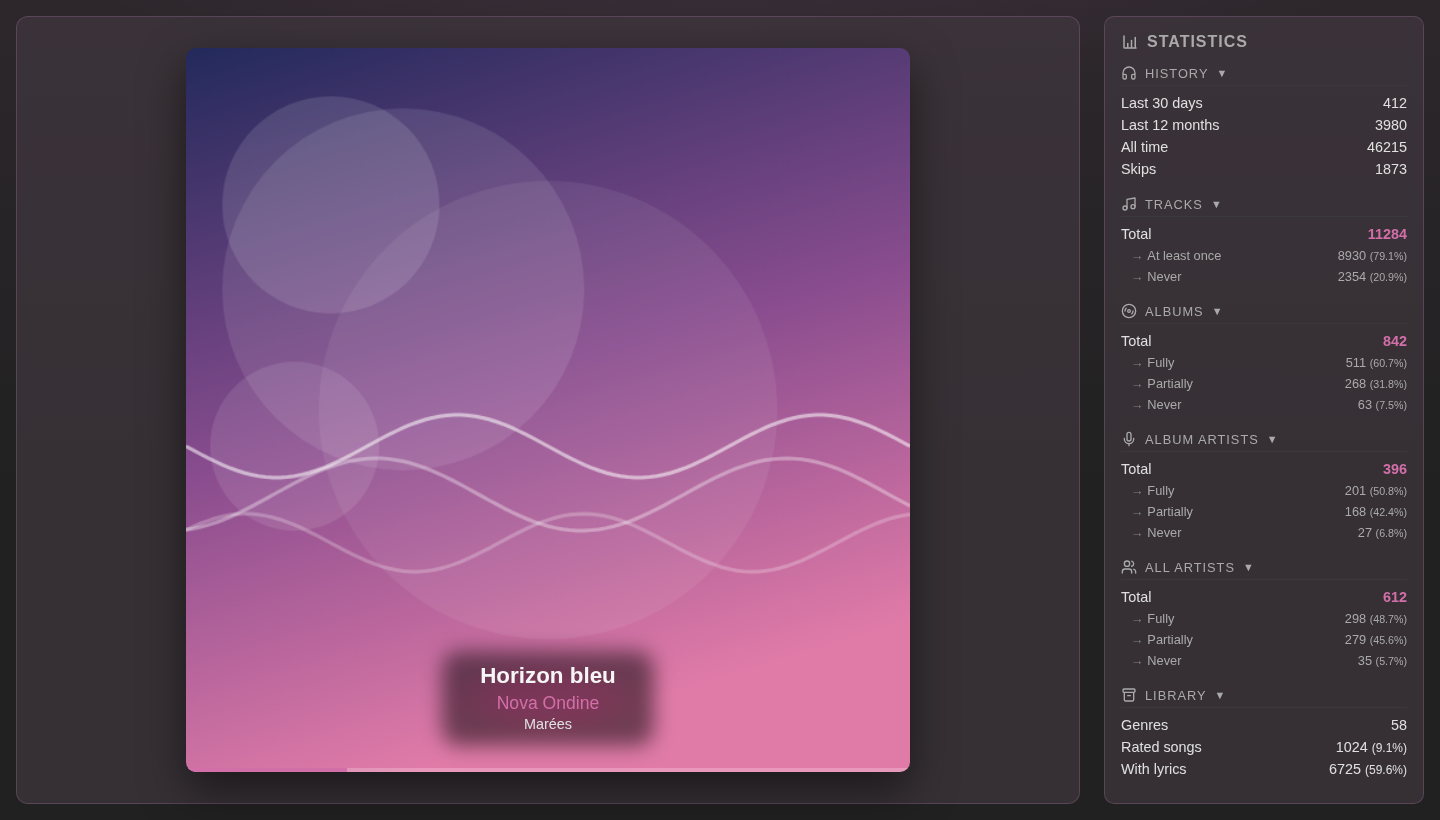
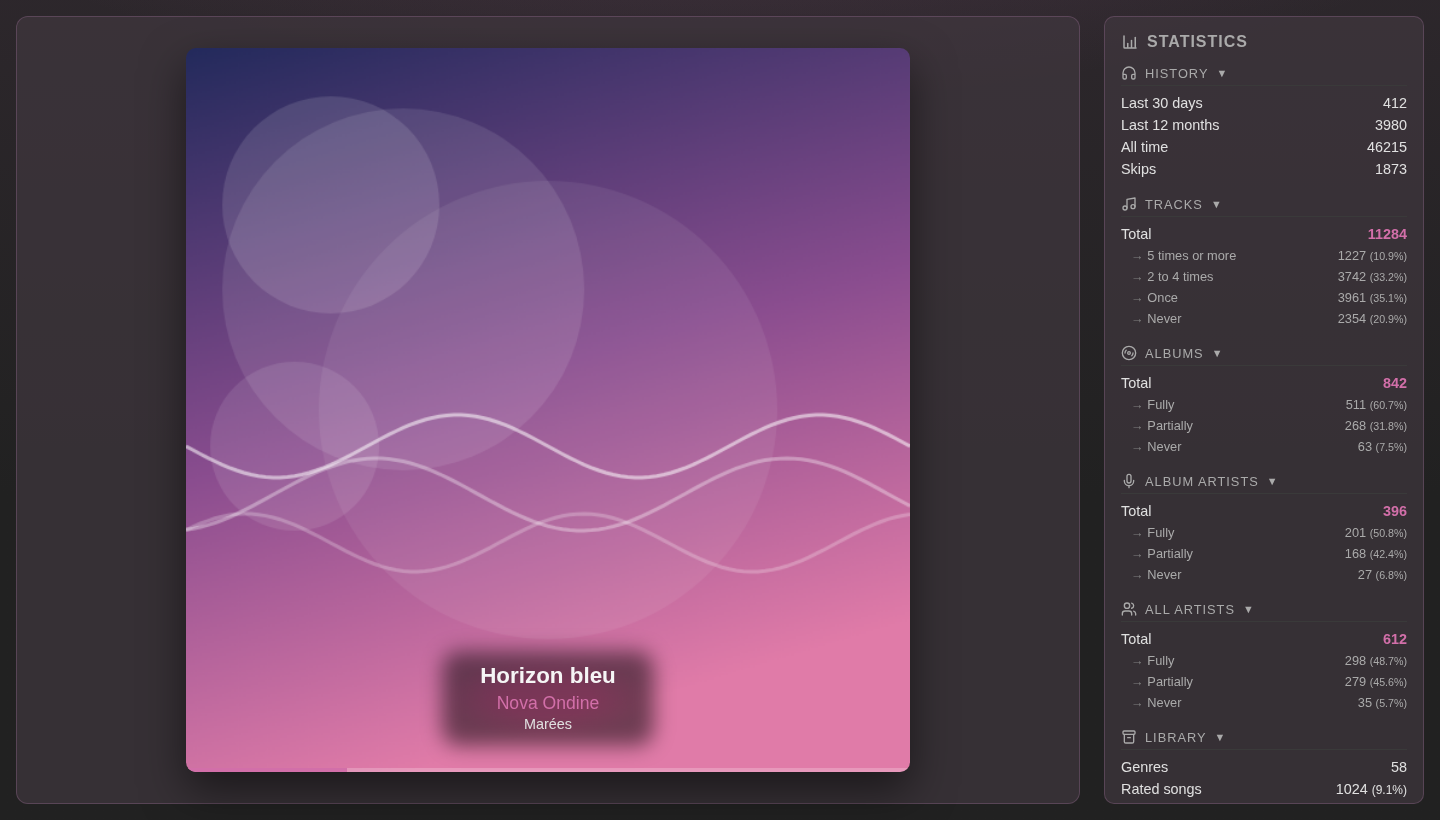
feat(stats): break the tracks down by how often they were played (#104)
* feat(stats): break the tracks down by how often they were played

"At least once" only said whether a track had ever been reached: a track
played once and one played forty times landed in the same percentage, and
on a library that has been through a full sweep the row sits at 100% while
"Never" sits at 0 — two lines that will never move again.

Replace it with three buckets: once, 2 to 4 times, 5 or more. The bounds
are arbitrary but fixed, so each row keeps meaning the same thing over time
and two screenshots a month apart compare. "Never" stays, as the one line
an import brings back to life. Dropping the aggregate keeps the group's
hierarchy flat and costs only one row of height, so the library group stays
above the fold on a 1080p desktop.

The three aggregates ride the track_play CTE the group already scans, and
the rows are ordinary data-stat cells, so the stats poll refreshes them with
no JS change. songs_played_apc stays in /stats.json, where it feeds the
Homepage widget documented in docs/endpoints.md.

Claude-Session: https://claude.ai/code/session_01NerUxeHjDo482m3L88v6r3

* fix(stats): order the depth rows from most to least played

The albums and artists groups read fully, partially, never — most played
first. The tracks group climbed the other way and still ended on "Never",
so it matched neither its neighbours nor itself.

Claude-Session: https://claude.ai/code/session_01NerUxeHjDo482m3L88v6r3

---------

diff --git a/templates/nowplaying.html b/templates/nowplaying.html
@@ -170,8 +170,16 @@
                     <span class="stat-value" data-stat="songs_total">{{ stats.songs_total }}</span>
                 </div>
                 <div class="stat-row sub">
-                    <span class="stat-label">{{ t.played }}</span>
-                    <span data-stat="songs_played_apc" data-stat-pct="songs_played_pct">{{ stats.songs_played_apc }} <small>({{ stats.songs_played_pct }}%)</small></span>
+                    <span class="stat-label">{{ t.played_5_plus }}</span>
+                    <span data-stat="songs_played_5_plus" data-stat-pct="songs_played_5_plus_pct">{{ stats.songs_played_5_plus }} <small>({{ stats.songs_played_5_plus_pct }}%)</small></span>
+                </div>
+                <div class="stat-row sub">
+                    <span class="stat-label">{{ t.played_2_4 }}</span>
+                    <span data-stat="songs_played_2_4" data-stat-pct="songs_played_2_4_pct">{{ stats.songs_played_2_4 }} <small>({{ stats.songs_played_2_4_pct }}%)</small></span>
+                </div>
+                <div class="stat-row sub">
+                    <span class="stat-label">{{ t.played_once }}</span>
+                    <span data-stat="songs_played_once" data-stat-pct="songs_played_once_pct">{{ stats.songs_played_once }} <small>({{ stats.songs_played_once_pct }}%)</small></span>
                 </div>
                 <div class="stat-row sub">
                     <span class="stat-label">{{ t.unplayed }}</span>

diff --git a/tests/test_stats_play_depth.py b/tests/test_stats_play_depth.py
@@ -1,0 +1,99 @@
+"""Tests for the play-depth buckets: how the played tracks split between one
+play, a few and many."""
+# The temp-db + Flask-app scaffolding is intentionally the same as in the
+# other database tests; that repetition is what keeps each file standalone.
+# pylint: disable=duplicate-code
+
+import os
+import sqlite3
+import tempfile
+import unittest
+
+os.environ.setdefault("LYRION_HOST", "http://localhost:9000")
+os.environ.setdefault("DB_DIR", tempfile.mkdtemp())
+os.environ.setdefault("DB_PERSIST_DIR", tempfile.mkdtemp())
+
+# The config env vars above must be set before anything imports config.py.
+# pylint: disable=wrong-import-position
+from flask import Flask
+
+from services.database import _compute_stats  # pylint: disable=protected-access
+
+
+LIBRARY_SCHEMA = """
+    CREATE TABLE tracks (id INTEGER, url TEXT, urlmd5 TEXT, audio INTEGER,
+                         album INTEGER, lyrics TEXT);
+    CREATE TABLE albums (id INTEGER, artwork TEXT);
+    CREATE TABLE contributor_track (contributor INTEGER, track INTEGER, role INTEGER);
+    CREATE TABLE genres (id INTEGER);
+"""
+PERSIST_SCHEMA = """
+    CREATE TABLE tracks_persistent (url TEXT, urlmd5 TEXT, playcount INTEGER,
+                                    lastplayed INTEGER, rating INTEGER);
+"""
+
+# One track per bucket boundary: unplayed, once, the edges of 2-4, and beyond.
+PLAYCOUNTS = [0, 1, 2, 4, 5, 40]
+
+
+class PlayDepthTest(unittest.TestCase):
+    def setUp(self):
+        self.library = self._make_db(LIBRARY_SCHEMA)
+        self.persist = self._make_db(PERSIST_SCHEMA)
+        conn = sqlite3.connect(self.library)
+        conn.executemany(
+            "INSERT INTO tracks VALUES (?, ?, ?, 1, 1, NULL)",
+            [(i, f"u{i}", f"m{i}") for i in range(len(PLAYCOUNTS))],
+        )
+        conn.execute("INSERT INTO albums VALUES (1, 'ca')")
+        conn.commit()
+        conn.close()
+        conn = sqlite3.connect(self.persist)
+        conn.executemany(
+            "INSERT INTO tracks_persistent VALUES (?, ?, ?, 100, 0)",
+            [(f"u{i}", f"m{i}", count) for i, count in enumerate(PLAYCOUNTS)],
+        )
+        conn.commit()
+        conn.close()
+
+        self.app = Flask(__name__)
+        self.app.config["DB_PATH"] = self.library
+        self.app.config["DB_PERSIST_PATH"] = self.persist
+        with self.app.app_context():
+            self.stats = _compute_stats()
+
+    def tearDown(self):
+        os.unlink(self.library)
+        os.unlink(self.persist)
+
+    @staticmethod
+    def _make_db(schema):
+        # Only borrows a unique path from NamedTemporaryFile: the handle is
+        # closed right away and the file removed in tearDown (delete=False).
+        tmp = tempfile.NamedTemporaryFile(suffix=".db", delete=False)  # pylint: disable=consider-using-with
+        tmp.close()
+        conn = sqlite3.connect(tmp.name)
+        conn.executescript(schema)
+        conn.commit()
+        conn.close()
+        return tmp.name
+
+    def test_each_bucket_holds_its_own_range(self):
+        self.assertEqual(self.stats["songs_played_once"], 1)
+        self.assertEqual(self.stats["songs_played_2_4"], 2)
+        self.assertEqual(self.stats["songs_played_5_plus"], 2)
+
+    def test_the_buckets_partition_the_played_tracks(self):
+        buckets = sum(self.stats[k] for k in
+                      ("songs_played_once", "songs_played_2_4", "songs_played_5_plus"))
+        self.assertEqual(buckets, self.stats["songs_played_apc"])
+        self.assertEqual(buckets + self.stats["songs_unplayed_apc"], self.stats["songs_total"])
+
+    def test_percentages_are_shares_of_the_whole_library(self):
+        self.assertEqual(self.stats["songs_played_once_pct"], round(100 / 6, 1))
+        self.assertEqual(self.stats["songs_played_2_4_pct"], round(200 / 6, 1))
+        self.assertEqual(self.stats["songs_played_5_plus_pct"], round(200 / 6, 1))
+
+
+if __name__ == "__main__":
+    unittest.main()

diff --git a/services/database.py b/services/database.py
@@ -210,7 +210,10 @@ def _compute_stats():
                 (SELECT SUM(is_played) FROM track_play)                        AS songs_played_apc,
                 (SELECT COUNT(*) - SUM(is_played) FROM track_play)             AS songs_unplayed_apc,
                 (SELECT SUM(playcount) FROM track_play WHERE playcount > 0)    AS songs_total_plays_apc,
-                (SELECT SUM(skipcount) FROM track_play WHERE skipcount > 0)    AS songs_total_skips_apc
+                (SELECT SUM(skipcount) FROM track_play WHERE skipcount > 0)    AS songs_total_skips_apc,
+                (SELECT SUM(playcount = 1) FROM track_play)                    AS songs_played_once,
+                (SELECT SUM(playcount BETWEEN 2 AND 4) FROM track_play)        AS songs_played_2_4,
+                (SELECT SUM(playcount >= 5) FROM track_play)                   AS songs_played_5_plus
             FROM album_agg
         """).fetchone()
 
@@ -225,6 +228,9 @@ def _compute_stats():
             "songs_unplayed_apc":    row["songs_unplayed_apc"] or 0,
             "songs_total_plays_apc": row["songs_total_plays_apc"] or 0,
             "songs_total_skips_apc": row["songs_total_skips_apc"] or 0,
+            "songs_played_once":     row["songs_played_once"] or 0,
+            "songs_played_2_4":      row["songs_played_2_4"] or 0,
+            "songs_played_5_plus":   row["songs_played_5_plus"] or 0,
             "apc_available":         apc_available,
         }
 
@@ -337,6 +343,9 @@ def _compute_stats():
         # Pourcentages songs
         stats["songs_played_pct"]       = pct(stats["songs_played_apc"],  stats["songs_total"])
         stats["songs_unplayed_apc_pct"] = pct(stats["songs_unplayed_apc"], stats["songs_total"])
+        stats["songs_played_once_pct"]  = pct(stats["songs_played_once"],  stats["songs_total"])
+        stats["songs_played_2_4_pct"]   = pct(stats["songs_played_2_4"],   stats["songs_total"])
+        stats["songs_played_5_plus_pct"] = pct(stats["songs_played_5_plus"], stats["songs_total"])
 
         # Pourcentages divers
         stats["rated_songs_pct"]        = pct(stats["rated_songs"],       stats["songs_total"])

diff --git a/i18n.py b/i18n.py
@@ -43,7 +43,9 @@ TRANSLATIONS = {
         "fully_played": "Complètement",
         "partially_played": "Partiellement",
         "never_played": "Jamais",
-        "played": "Au moins une fois",
+        "played_5_plus": "5 fois et plus",
+        "played_2_4": "2 à 4 fois",
+        "played_once": "1 fois",
         "unplayed": "Jamais",
         "played_last_30d": "30 derniers jours",
         "played_last_year": "12 derniers mois",
@@ -86,7 +88,9 @@ TRANSLATIONS = {
         "fully_played": "Fully",
         "partially_played": "Partially",
         "never_played": "Never",
-        "played": "At least once",
+        "played_5_plus": "5 times or more",
+        "played_2_4": "2 to 4 times",
+        "played_once": "Once",
         "unplayed": "Never",
         "played_last_30d": "Last 30 days",
         "played_last_year": "Last 12 months",

diff --git a/scripts/generate_screenshots.py b/scripts/generate_screenshots.py
@@ -75,6 +75,7 @@ def _stats():
         "songs_total": 11284, "songs_played_apc": 8930,
         "songs_unplayed_apc": 2354, "songs_total_plays_apc": 46215,
         "songs_total_skips_apc": 1873, "apc_available": True,
+        "songs_played_once": 3961, "songs_played_2_4": 3742, "songs_played_5_plus": 1227,
         "genres": 58, "rated_songs": 1024, "songs_with_lyrics": 6725,
         "velocity_30d": 412, "velocity_1year": 3980,
     }
@@ -94,6 +95,8 @@ def _stats():
         s[key + "_pct"] = _pct(s[key], s[total])
     s["songs_played_pct"] = _pct(s["songs_played_apc"], s["songs_total"])
     s["songs_unplayed_apc_pct"] = _pct(s["songs_unplayed_apc"], s["songs_total"])
+    for key in ("songs_played_once", "songs_played_2_4", "songs_played_5_plus"):
+        s[key + "_pct"] = _pct(s[key], s["songs_total"])
     return s
 
 

diff --git a/README.fr.md b/README.fr.md
@@ -17,7 +17,7 @@
 - **Dernières écoutes** -- Sur grand écran, les albums récemment écoutés s'empilent comme des pochettes de disque sous la cover, le plus récent au-dessus. Construit à partir de l'historique d'écoute, une pochette par album ; avec le plugin Alternative Play Count installé, les sauts sont exclus.
 - **Paroles synchronisées** -- Les paroles avec timestamps LRC défilent ligne par ligne au rythme de la lecture, façon karaoké.
 - **Recherche web de paroles** -- Un interrupteur de recherche automatique interroge LRCLIB, Musixmatch et Genius pour chaque morceau joué : il complète les paroles absentes de la bibliothèque et convertit son texte simple en version synchronisée quand elle existe.
-- **Statistiques de la bibliothèque** -- Albums, artistes, morceaux joués/non joués, genres, notes, paroles, vélocité d'écoute sur 30 jours.
+- **Statistiques de la bibliothèque** -- Albums, artistes, morceaux joués/non joués et profondeur des réécoutes, genres, notes, paroles, vélocité d'écoute sur 30 jours.
 - **Serveur de fichiers** -- Sert les fichiers depuis un répertoire configurable.
 - **Application Android** -- Une fine surcouche WebView (même principe que [lms-material-app](https://github.com/CDrummond/lms-material-app)) avec découverte automatique du serveur LMS, publiée sur [F-Droid](https://f-droid.org/packages/com.werdeil.lyriondashboard/), voir [`android/`](android/README.md) (en anglais).
 

diff --git a/README.md b/README.md
@@ -17,7 +17,7 @@
 - **Recent plays** -- On wide screens the recently played albums stack up as a pile of sleeves under the cover, newest on top. Built from the play history, one cover per album; with the Alternative Play Count plugin installed, skips are excluded.
 - **Synced lyrics** -- Lyrics with LRC timestamps scroll line by line in time with playback, karaoke-style.
 - **Web lyrics fallback** -- An auto-search switch queries LRCLIB, Musixmatch and Genius for every playing track: it fills in what the library is missing and upgrades plain text to a synced version when one exists.
-- **Library statistics** -- Albums, artists, played/unplayed tracks, genres, ratings, lyrics, 30-day listening velocity.
+- **Library statistics** -- Albums, artists, played/unplayed tracks and how deep the replays go, genres, ratings, lyrics, 30-day listening velocity.
 - **File server** -- Serves files from a configurable directory.
 - **Android app** -- A thin WebView wrapper (same principle as [lms-material-app](https://github.com/CDrummond/lms-material-app)) with LMS auto-discovery, published on [F-Droid](https://f-droid.org/packages/com.werdeil.lyriondashboard/), see [`android/`](android/README.md).
 
